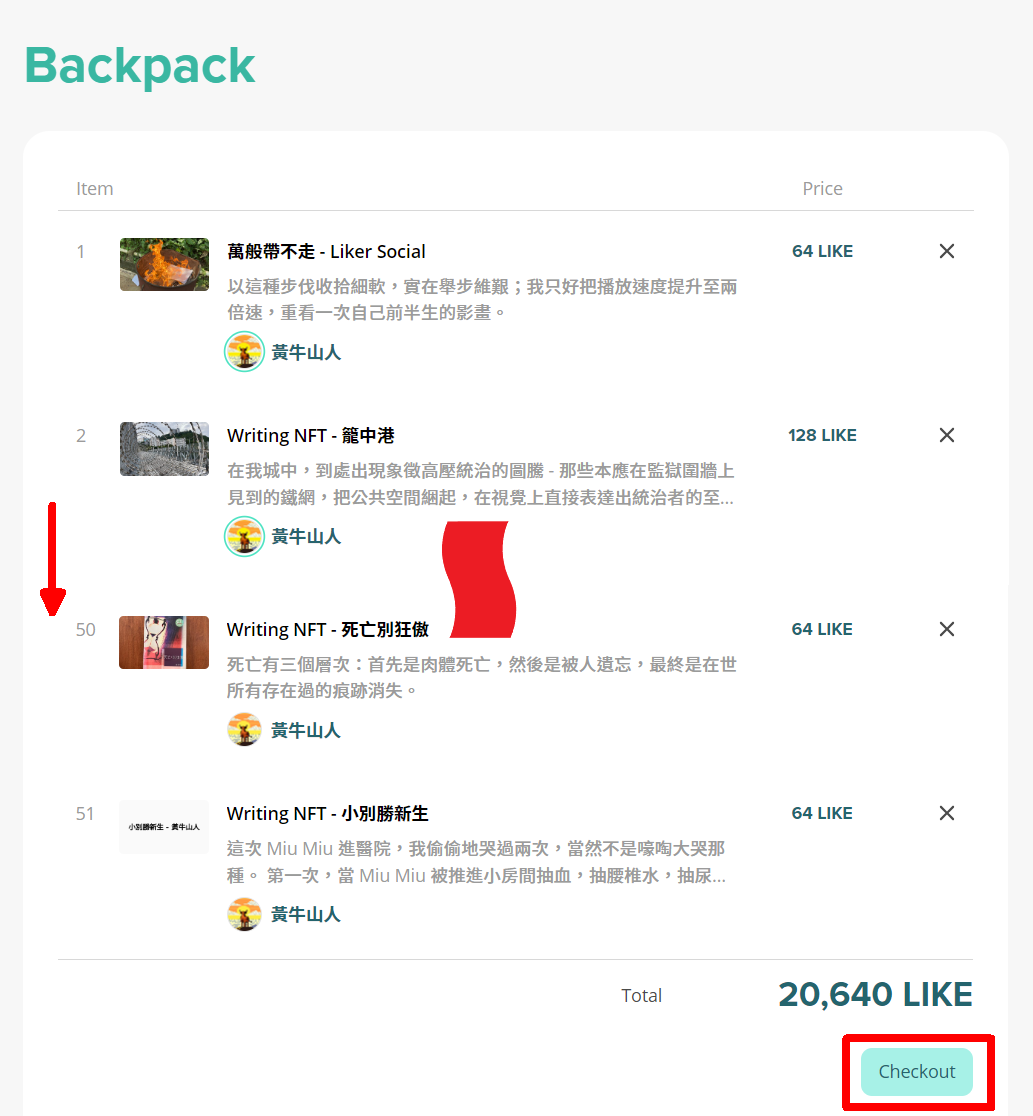
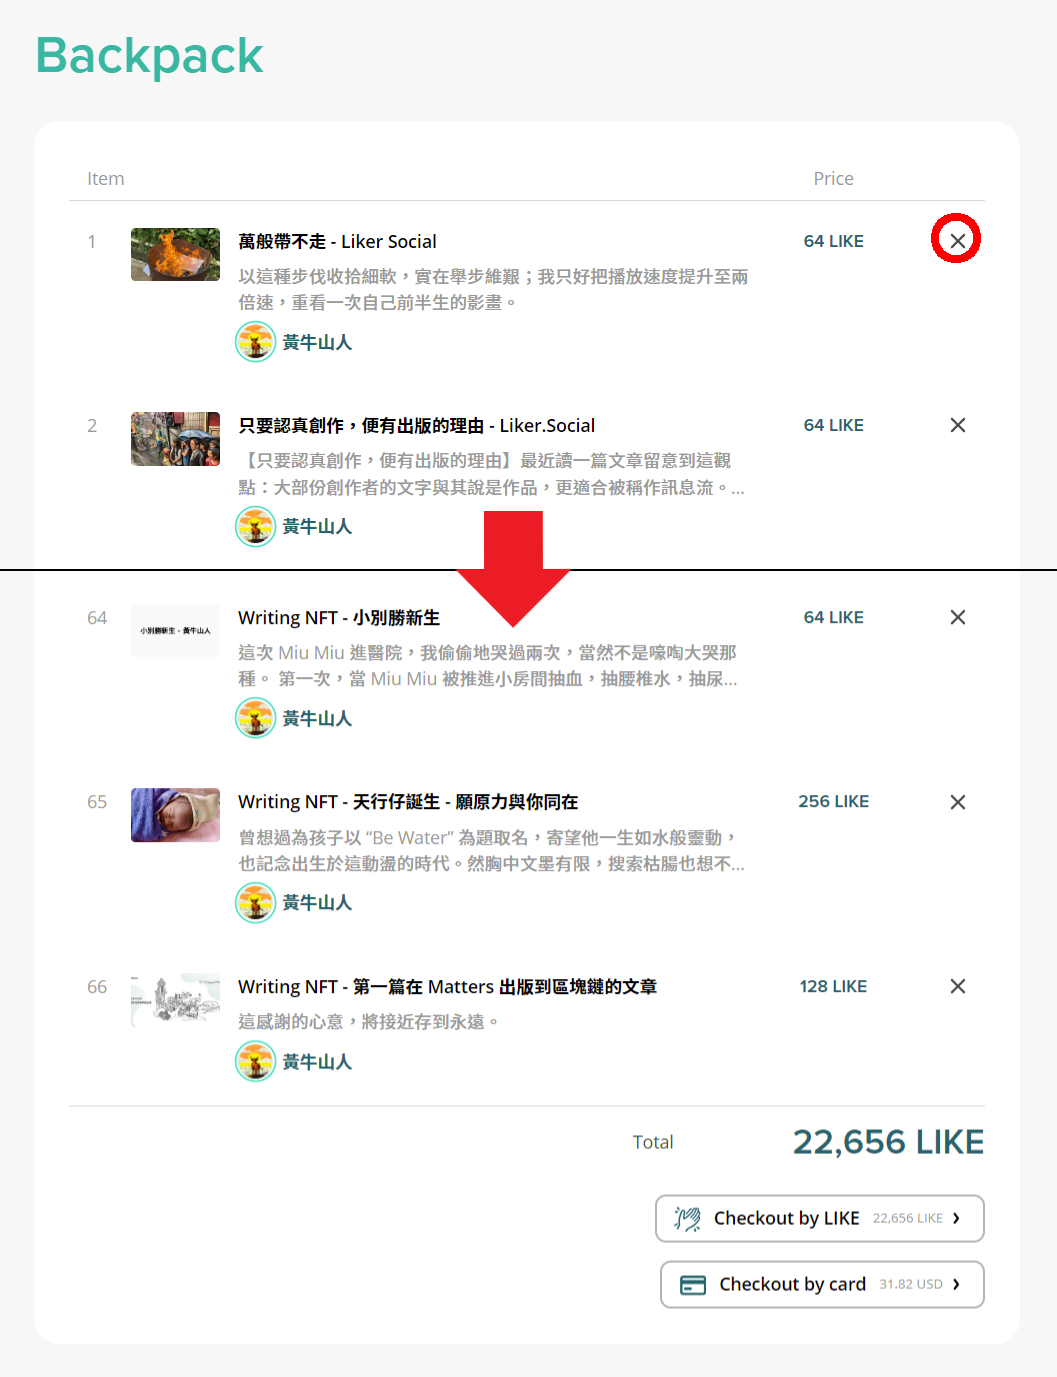
GITBOOK-4551: One-Click Collect All Writing NFT

diff --git a/general-guides/writing-nft/collect-writing-nft/collect-all.md b/general-guides/writing-nft/collect-writing-nft/collect-all.md
@@ -16,17 +16,27 @@ Please log in to your [Keplr](../../wallet/keplr/), [Cosmostation](../../wallet/
 
 The backpack page will appear. If you already own NFTs from the creator, the system will automatically exclude those owned NFTs and only display the ones you have not collected before. You can also click the "X" to remove any NFTs you don't wish to purchase.
 
-Once you have finished checking, click "Checkout".
+Once you have finished checking, click "Checkout by LIKE" or "Checkout by card".
 
-<figure><img src="../../../.gitbook/assets/Collect All 2-en.png" alt=""><figcaption><p> Click "Checkout".</p></figcaption></figure>
+<figure><img src="../../../.gitbook/assets/Collect All 2-en.png" alt=""><figcaption><p>Click "Checkout by LIKE" or "Checkout by card"</p></figcaption></figure>
 
 ## Step 3: Confirm purchase
+
+### Checkout by LIKE
 
 Using Keplr as an example, a pop-up window will appear, and you can click "Approve" to confirm your purchase. The Cosmostation, Leap, Keplr Mobile, Cosmostation app, or Liker Land mobile application will also display the respective confirmation screens.
 
 <figure><img src="../../../.gitbook/assets/Collect All 3-en.png" alt=""><figcaption><p>Keplr window pops up click "Approve" to confirm the purchase</p></figcaption></figure>
 
+### Checkout by card
+
+Enter your email and credit card information, then click "Pay".
+
+<figure><img src="../../../.gitbook/assets/Collect All 6.png" alt=""><figcaption><p>Enter your email and credit card information, then click "Pay".</p></figcaption></figure>
+
 ## Step 4: Check your NFT Collection
+
+### Checkout by LIKE
 
 The Collect NFT page will appear.
 
@@ -35,6 +45,12 @@ The Collect NFT page will appear.
 After the payment is successful, you can view the purchased NFT by clicking "View Portfolio".
 
 <figure><img src="../../../.gitbook/assets/Collect All 5-en.png" alt=""><figcaption><p>Successfully purchased Writing NFT</p></figcaption></figure>
+
+### Checkout by card
+
+After the payment is successful, the "Collection NFT" page will appear. You can view the purchased NFT by clicking "View the NFT".
+
+<figure><img src="../../../.gitbook/assets/Collect All 7-en.png" alt=""><figcaption></figcaption></figure>
 
 #### Follow the creator and collect his/her new works:
 
